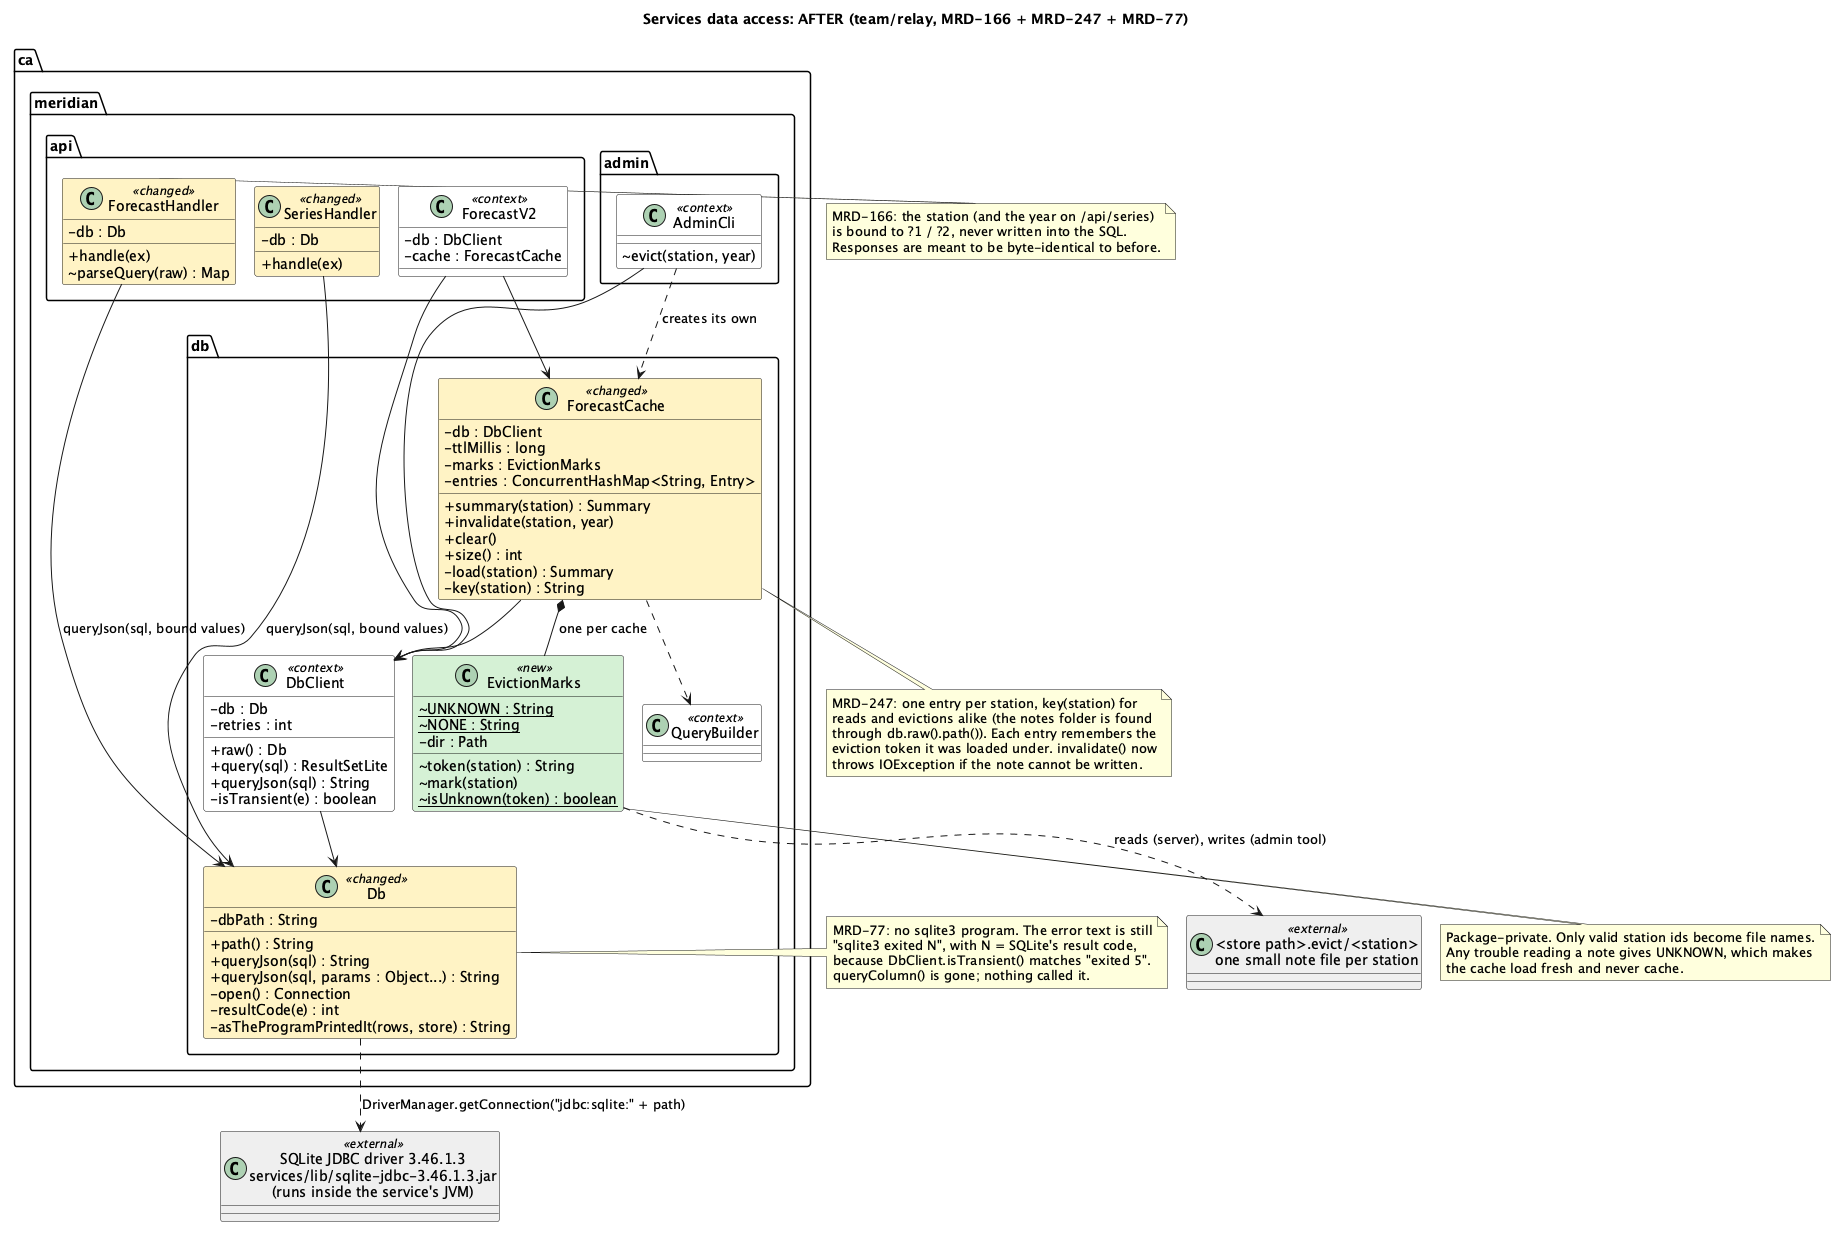
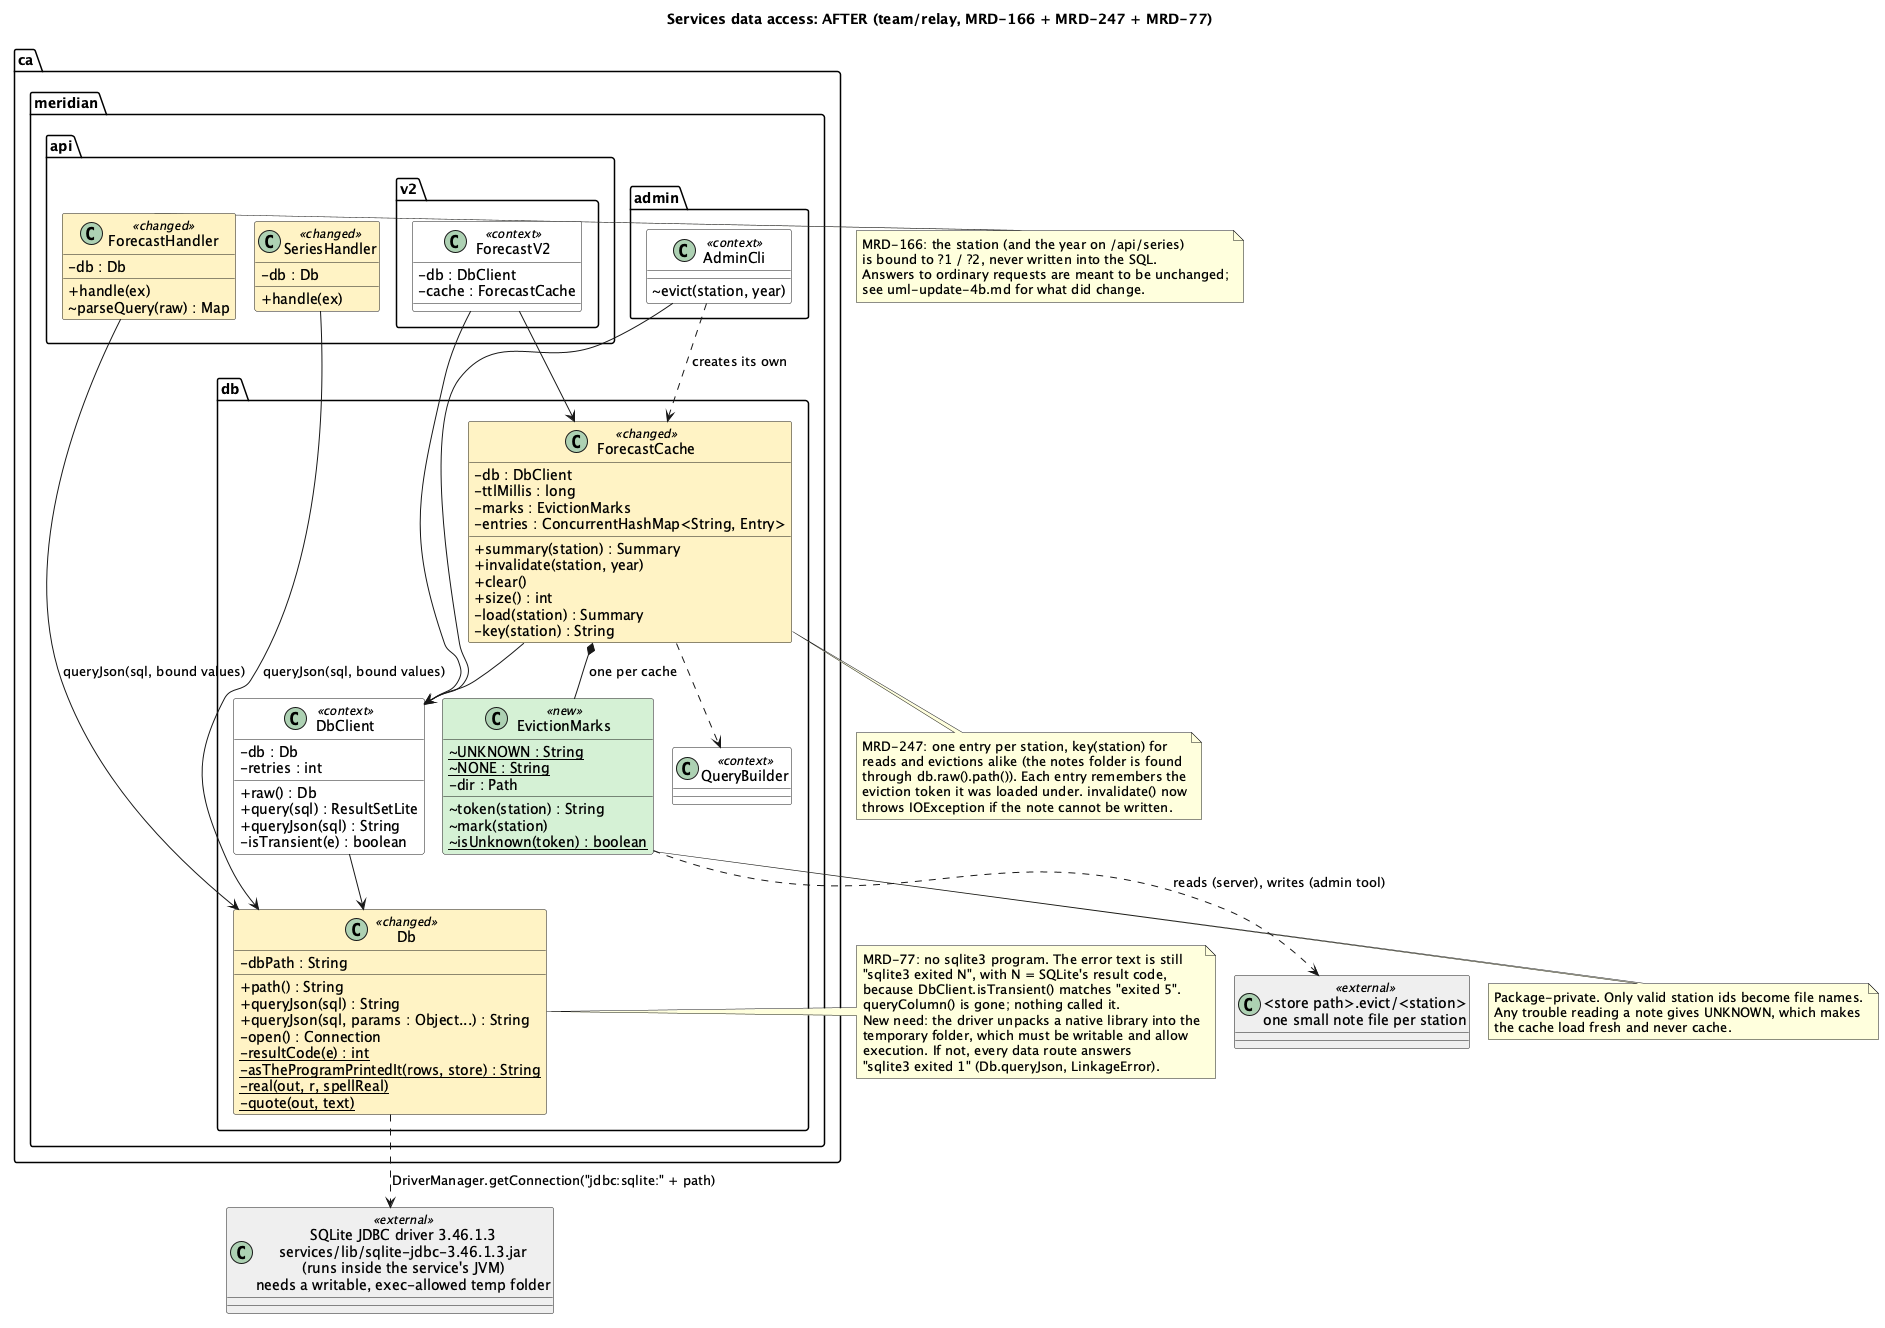
services docs: address review on #31 (answers that changed, temp-dir need, ForecastV2 package, move fallback)

Changed region(s): [[0.0, 0.0, 1.0, 0.9838]]

diff --git a/services/docs/models/uml-update-4b.md b/services/docs/models/uml-update-4b.md
@@ -46,9 +46,23 @@ Unchanged and left out of the diagrams: `DbClient`'s behaviour, `QueryBuilder` (
 
 ## Interface contracts (`docs/CONTRACTS.md`): checked, no edit needed for this change
 
-The three tickets keep every response byte-identical (the tests hold `forecast`, `series`,
-`stations` and v2 output to recorded text), and none changes the HTTP routes, the store schema,
-or the pipeline order. So nothing in `CONTRACTS.md` is made wrong *by this change*.
+The three tickets keep every response byte-identical for the requests callers send today,
+except the changed answers listed in section 6 of the team's fact sheet and in team PR #24. The
+tests hold `forecast`, `series`, `stations` and v2 answers to recorded text. None of the three
+tickets changes the HTTP routes, the store schema, or the pipeline order. Examples of answers
+that did change:
+
+- A station value containing a quote, such as `'`, now answers 200 `[]` instead of a 500
+  (MRD-166: the value is bound, not run as SQL).
+- `AdminCli evict` now prints `(entries now 0)` (MRD-247: the entry is actually removed).
+- With no `sqlite3` program installed, the routes now answer normally (MRD-77).
+- With a temporary folder that is not writable or does not allow execution, every data route
+  answers 500 `sqlite3 exited 1` (MRD-77: the driver cannot unpack its native library).
+
+`CONTRACTS.md` does not mention `sqlite3`, the driver, temporary folders, error bodies or the
+admin tool's output (searched for `sqlite3`, `jdbc`, `tmp`, `temp`, `500`, `error` and
+`entries`: no matches). So none of those changes makes a line in it wrong, and no
+`CONTRACTS.md` edit is needed for this change.
 
 Two lines in the HTTP API section were already wrong before this change. They are listed here
 so the team can decide, not changed here:
